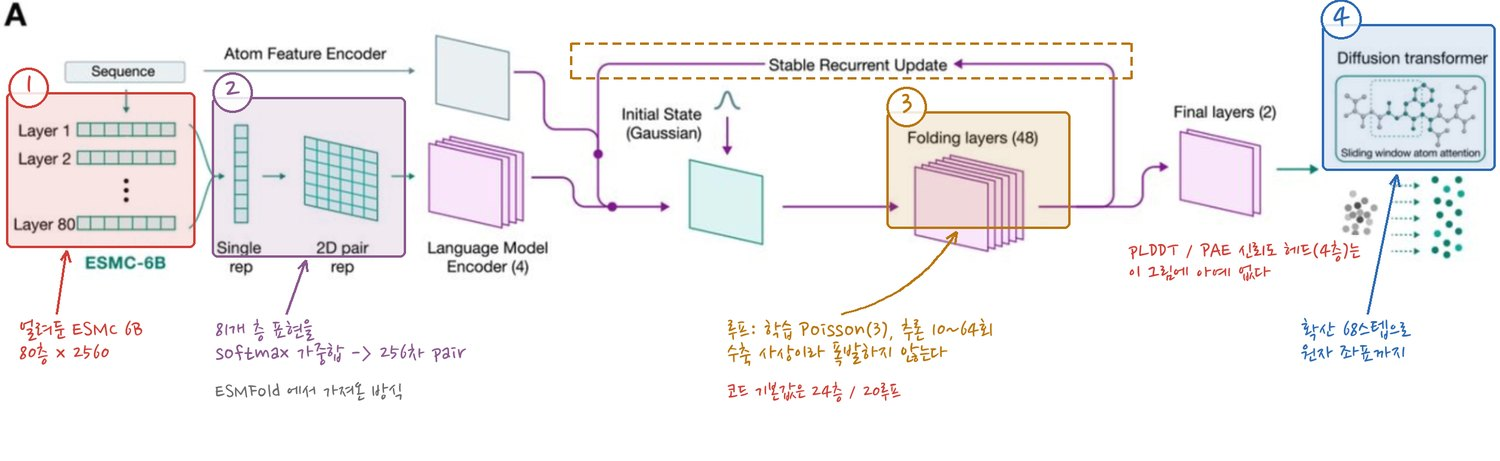
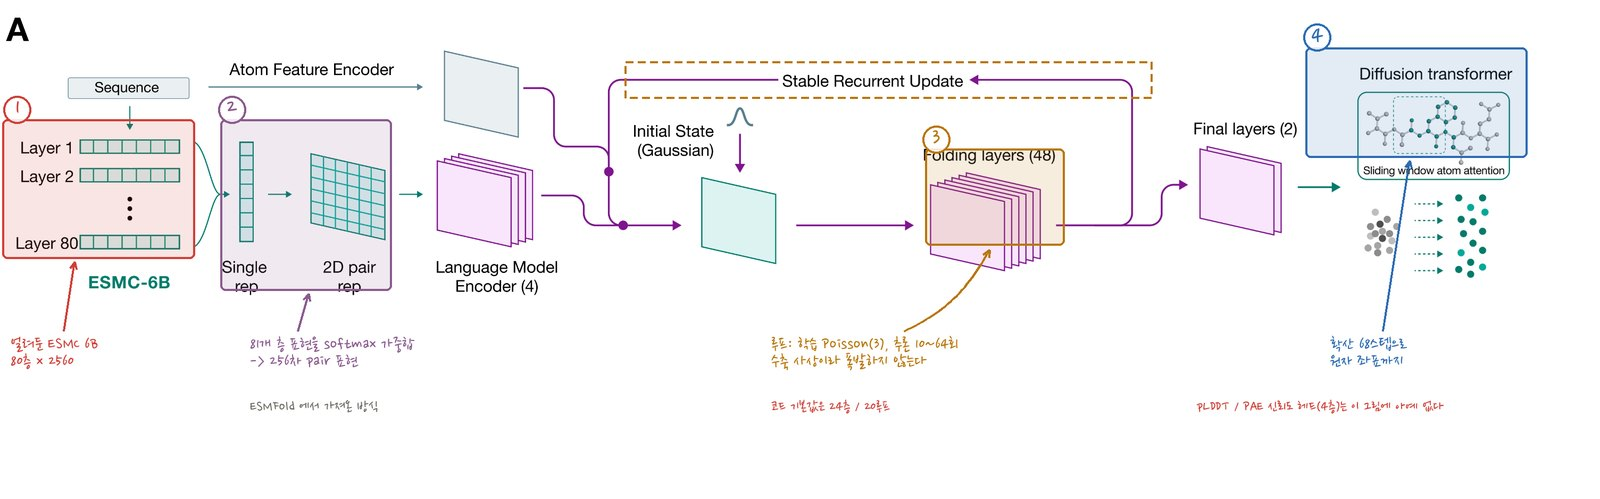
Re-capture the ESMC/ESMFold2 figures from the PDF
Same treatment as the SAE post: the HTML page serves Figure 1-3 as ~1,280 px
JPEGs, so panels were re-captured from the PDF (pages 3, 5, 7) in Chrome's
viewer at 400%, panel by panel, where the figure is still vector.

- Figure 2A stitched from three 400% tiles: 3,008 px wide of real detail,
  against roughly 1,280 px before
- Figure 1B, 1C, 1D, 2C, 2D, 2E and 3A re-rendered at 1,100-1,500 px
- Figure 2B added to section 3.3, which had no figure: it shows the twelve
  points behind the two log-linear fits, which is the point the critique makes
- annotations redrawn; several memos moved out of the plots into the margin
  strip so they no longer sit on the data

Claude-Session: https://claude.ai/code/session_01WeuVKTz2XfxiKwtoJS4U2K

Changed region(s): [[0.0, 0.0, 1.0, 0.8807], [0.736, 0.6681, 0.9507, 0.82], [0.0, 0.0, 0.0307, 0.0911]]

diff --git a/content/posts/_drafts/esmc-esmfold2/tools/annot_pdf2.py b/content/posts/_drafts/esmc-esmfold2/tools/annot_pdf2.py
@@ -1,0 +1,145 @@
+"""Annotate the high-resolution PDF captures for the ESMC + ESMFold2 post."""
+import sys
+sys.path.insert(0, "/tmp/gen")
+from ink import *
+
+S = "/tmp/pdf2/"
+P = "/home/claude/eden-repo/content/posts/2026-11-12-esmc-esmfold2/imgs/"
+
+
+def room(im, bottom):
+    c = Image.new("RGB", (im.width, im.height + bottom), "white")
+    c.paste(im, (0, 0))
+    return c
+
+
+# ---------------------------------------------------------------- Fig 1B + 1C
+b = load(S + "f1b.png")
+c = load(S + "f1c.png")
+h = min(b.height, c.height)
+b = b.crop((0, 0, b.width, h)); c = c.crop((0, 0, c.width, h))
+gap = 50
+im = Image.new("RGB", (b.width + gap + c.width, h + 200), "white")
+im.paste(b, (0, 0)); im.paste(c, (b.width + gap, 0))
+ox = b.width + gap
+H0 = h
+
+box(im, 3, (330, 540, 700, 800), pad=6, dash=True)
+memo(im, "먼저 작은 모델 다섯 개로 곡선을 긋고 (P@L-LR = 0.115 log10(FLOPs) - 1.98, R2 = 0.99)",
+     (14, H0 + 20), size=31, col=MK[3])
+memo(im, "그 곡선 위에서 300M / 600M / 6B 를 골랐다. 6B 실측은 외삽과 0.007 차이뿐이다",
+     (14, H0 + 70), size=31, col=INK)
+arrow(im, (300, H0 + 12), (380, 812), col=MK[3], w=4, head=14)
+
+d = ImageDraw.Draw(im, "RGBA")
+d.ellipse([ox + 930, 150, ox + 1020, 240], outline=MK[5], width=5)
+memo_w(im, "0.72", (ox + 960, 90), size=32, col=MK[5])
+box(im, 2, (ox + 800, 420, ox + 1180, 485), pad=4, dash=True)
+memo_w(im, "0.59 에서 평평", (ox + 830, 520), size=30, col=MK[2])
+memo(im, "같은 지표로 ESM2 와 ESMC 를 나란히. ESM2 는 15B 에서 이미 누웠고 ESMC 는 6B 에서도 오른다",
+     (ox + 14, H0 + 20), size=31, col=MK[1])
+save(im, P + "fig1bc_annot.jpg", maxw=1600)
+
+# ---------------------------------------------------------------- Fig 1D
+im = load(S + "f1d.png")
+H0 = im.height
+im = room(im, 130)
+memo_w(im, "기능(EC)은 50~60층에서 최고", (620, 95), size=30, col=MK[2])
+arrow(im, (800, 150), (845, 180), col=MK[2], w=4, head=14)
+memo_w(im, "구조는 거의 끝까지 안 나오다가\n50층 넘어서 솟는다", (830, 560), size=30, col=MK[5])
+arrow(im, (1030, 640), (1010, 440), col=MK[5], w=4, head=14, curve=40)
+memo(im, "ESMFold2 가 마지막 층만 쓰지 않고 81개 층을 전부 받아가는 이유",
+     (14, H0 + 16), size=32, col=INK)
+save(im, P + "fig1d_annot.jpg", maxw=1340)
+
+# ---------------------------------------------------------------- Fig 2A
+im = load(S + "f2a_stitched.png")     # 3008 x 608
+H0 = im.height
+im = room(im, 330)
+
+box(im, 1, (10, 230, 360, 480), pad=6, fill=True)
+box(im, 2, (420, 230, 730, 540), pad=6, fill=True)
+box(im, 3, (1745, 285, 1995, 455), pad=6, fill=True)
+box(im, 3, (1180, 120, 2160, 180), pad=4, dash=True)
+box(im, 4, (2460, 95, 2865, 290), pad=6, fill=True)
+
+marker(im, 1, (32, 206), r=26)
+marker(im, 2, (436, 206), r=26)
+marker(im, 3, (1760, 262), r=26)
+marker(im, 4, (2476, 70), r=26)
+
+memo(im, "얼려둔 ESMC 6B\n80층 x 2560", (20, H0 + 22), size=34, col=MK[1])
+memo(im, "81개 층 표현을 softmax 가중합\n-> 256차 pair 표현", (470, H0 + 22), size=34, col=MK[2])
+memo(im, "ESMFold 에서 가져온 방식", (470, H0 + 142), size=30, col="#6b6b63")
+memo(im, "루프: 학습 Poisson(3), 추론 10~64회\n수축 사상이라 폭발하지 않는다", (1450, H0 + 22), size=34, col=MK[3])
+memo(im, "코드 기본값은 24층 / 20루프", (1450, H0 + 142), size=30, col=RED)
+memo(im, "확산 68스텝으로\n원자 좌표까지", (2500, H0 + 22), size=34, col=MK[4])
+
+arrow(im, (120, H0 + 14), (140, 492), col=MK[1], w=4, head=15)
+arrow(im, (560, H0 + 14), (580, 552), col=MK[2], w=4, head=15)
+arrow(im, (1700, H0 + 14), (1860, 470), col=MK[3], w=4, head=15, curve=40)
+arrow(im, (2600, H0 + 14), (2650, 302), col=MK[4], w=4, head=15)
+
+memo(im, "pLDDT / PAE 신뢰도 헤드(4층)는 이 그림에 아예 없다", (2250, H0 + 142), size=30, col=RED)
+save(im, P + "fig2a_annot.jpg", maxw=1600)
+
+# ---------------------------------------------------------------- Fig 2B (new)
+im = load(S + "f2b.png")
+H0 = im.height
+im = room(im, 140)
+memo(im, "언어모델 학습 FLOPs 하나만 바꾸고 폴딩 모델은 구조도 데이터도 계산량도 고정했다",
+     (14, H0 + 16), size=30, col=INK)
+memo(im, "단 12점이다. 세 크기 x 체크포인트 네 개, 같은 학습 곡선 위의 점들은 서로 독립이 아니다",
+     (14, H0 + 66), size=30, col=RED)
+save(im, P + "fig2b_annot.jpg", maxw=1280)
+
+# ---------------------------------------------------------------- Fig 2C
+im = load(S + "f2c.png")
+H0 = im.height
+im = room(im, 130)
+box(im, 1, (182, 225, 332, 650), pad=4, dash=True)
+box(im, 4, (420, 285, 527, 650), pad=4, dash=True)
+memo_w(im, "MSA 없이 50", (150, 92), size=30, col=MK[1])
+memo_w(im, "MSA 쓴 AF3 는 47", (340, 170), size=29, col=MK[4])
+memo(im, "항체-항원에서만 뒤집힌다. 단백질-단백질은 아직 MSA 쪽이 앞선다 (70 vs 73)",
+     (14, H0 + 16), size=31, col=INK)
+save(im, P + "fig2c_annot.jpg", maxw=1340)
+
+# ---------------------------------------------------------------- Fig 2D
+im = load(S + "f2d.png")
+H0 = im.height
+im = room(im, 210)
+box(im, 5, (90, 500, 170, 580), pad=4, dash=True)
+box(im, 1, (600, 190, 680, 260), pad=4, dash=True)
+memo(im, "시드 1개 49 -> 1000개 65", (14, H0 + 14), size=31, col=MK[5])
+memo(im, "오른쪽 위 네모가 Fast 가 큰 모델을 따라잡는 지점이다", (14, H0 + 64), size=31, col=MK[1])
+memo(im, "추론 때 샘플을 늘리는 것만으로 16%p. 다만 루프마다 LM 드롭아웃이 켜져 있다",
+     (14, H0 + 122), size=31, col=INK)
+arrow(im, (120, H0 + 8), (130, 592), col=MK[5], w=4, head=14)
+arrow(im, (520, H0 + 58), (628, 272), col=MK[1], w=4, head=14, curve=60)
+save(im, P + "fig2d_annot.jpg", maxw=1400)
+
+# ---------------------------------------------------------------- Fig 2E
+im = load(S + "f2e.png")
+H0 = im.height
+im = room(im, 200)
+box(im, 4, (995, 770, 1075, 880), pad=4, dash=True)
+memo(im, "1024 잔기에서 ESMFold2 15.8초, Fast 9.4초",
+     (14, H0 + 14), size=30, col=MK[4])
+memo(im, "H100 한 장 기준, MSA 검색 시간은 빠져 있다",
+     (14, H0 + 64), size=30, col=RED)
+memo(im, "Chai-1(1024 잔기에서 110초)은 그래프에서 제외됐다",
+     (14, H0 + 114), size=30, col=INK)
+arrow(im, (700, H0 + 8), (1000, 890), col=MK[4], w=4, head=14, curve=-40)
+save(im, P + "fig2e_annot.jpg", maxw=1120)
+
+# ---------------------------------------------------------------- Fig 3A
+im = load(S + "f3a.png")
+H0 = im.height
+im = room(im, 130)
+box(im, 1, (1290, 510, 1360, 580), pad=4, dash=True)
+memo_w(im, "PD-L1 scFv 만 제자리", (1050, 420), size=29, col=MK[1])
+arrow(im, (1250, 465), (1305, 515), col=MK[1], w=4, head=13)
+memo(im, "탐색 계산을 늘리면 10쌍 중 9쌍이 좋아진다. 미니바인더 53.8 -> 70.0%, scFv 12.1 -> 21.0%",
+     (14, H0 + 16), size=30, col=INK)
+save(im, P + "fig3a_annot.jpg", maxw=1534)

diff --git a/content/posts/_drafts/esmc-esmfold2/tools/stitch2a.py b/content/posts/_drafts/esmc-esmfold2/tools/stitch2a.py
@@ -1,0 +1,52 @@
+"""Stitch the three 400% tiles of Figure 2A into one wide panel."""
+from PIL import Image
+import numpy as np
+
+S = "/tmp/pdf2/"
+t1 = Image.open(S + "f2a_1.png").convert("RGB")
+t2 = Image.open(S + "f2a_2.png").convert("RGB")
+t3 = Image.open(S + "f2a_3.png").convert("RGB")
+
+# t1,t2 captured from a 1110-px-wide frame region; t3 from 920. Match scales.
+scale3 = (1568 / 1110) / (1568 / 920)
+t3 = t3.resize((round(t3.width * scale3), round(t3.height * scale3)), Image.LANCZOS)
+# crop all to the same height
+h = min(t1.height, t2.height, t3.height)
+t1, t2, t3 = t1.crop((0, 0, t1.width, h)), t2.crop((0, 0, t2.width, h)), t3.crop((0, 0, t3.width, h))
+
+
+def best_offset(a, b, lo, hi, band=(0, None)):
+    """Offset o minimising |a[o:] - b[:w-o]| — i.e. b starts at x=o inside a."""
+    A = np.asarray(a.convert("L"), dtype=np.int16)
+    B = np.asarray(b.convert("L"), dtype=np.int16)
+    y0, y1 = band[0], band[1] or A.shape[0]
+    A, B = A[y0:y1], B[y0:y1]
+    best, bo = None, None
+    for o in range(lo, hi):
+        w = min(A.shape[1] - o, B.shape[1])
+        if w < 120:
+            continue
+        d = np.abs(A[:, o:o + w] - B[:, :w]).mean()
+        if best is None or d < best:
+            best, bo = d, o
+    return bo, best
+
+
+o2, d2 = best_offset(t1, t2, 300, t1.width - 150)
+print("t2 starts at", o2, "diff", round(d2, 2))
+
+# build t1+t2 first
+W12 = o2 + t2.width
+c12 = Image.new("RGB", (W12, h), "white")
+c12.paste(t1, (0, 0))
+c12.paste(t2, (o2, 0))
+
+o3, d3 = best_offset(c12, t3, 600, c12.width - 150)
+print("t3 starts at", o3, "diff", round(d3, 2))
+
+W = o3 + t3.width
+out = Image.new("RGB", (W, h), "white")
+out.paste(c12, (0, 0))
+out.paste(t3, (o3, 0))
+out.save(S + "f2a_stitched.png")
+print("stitched", out.size)
